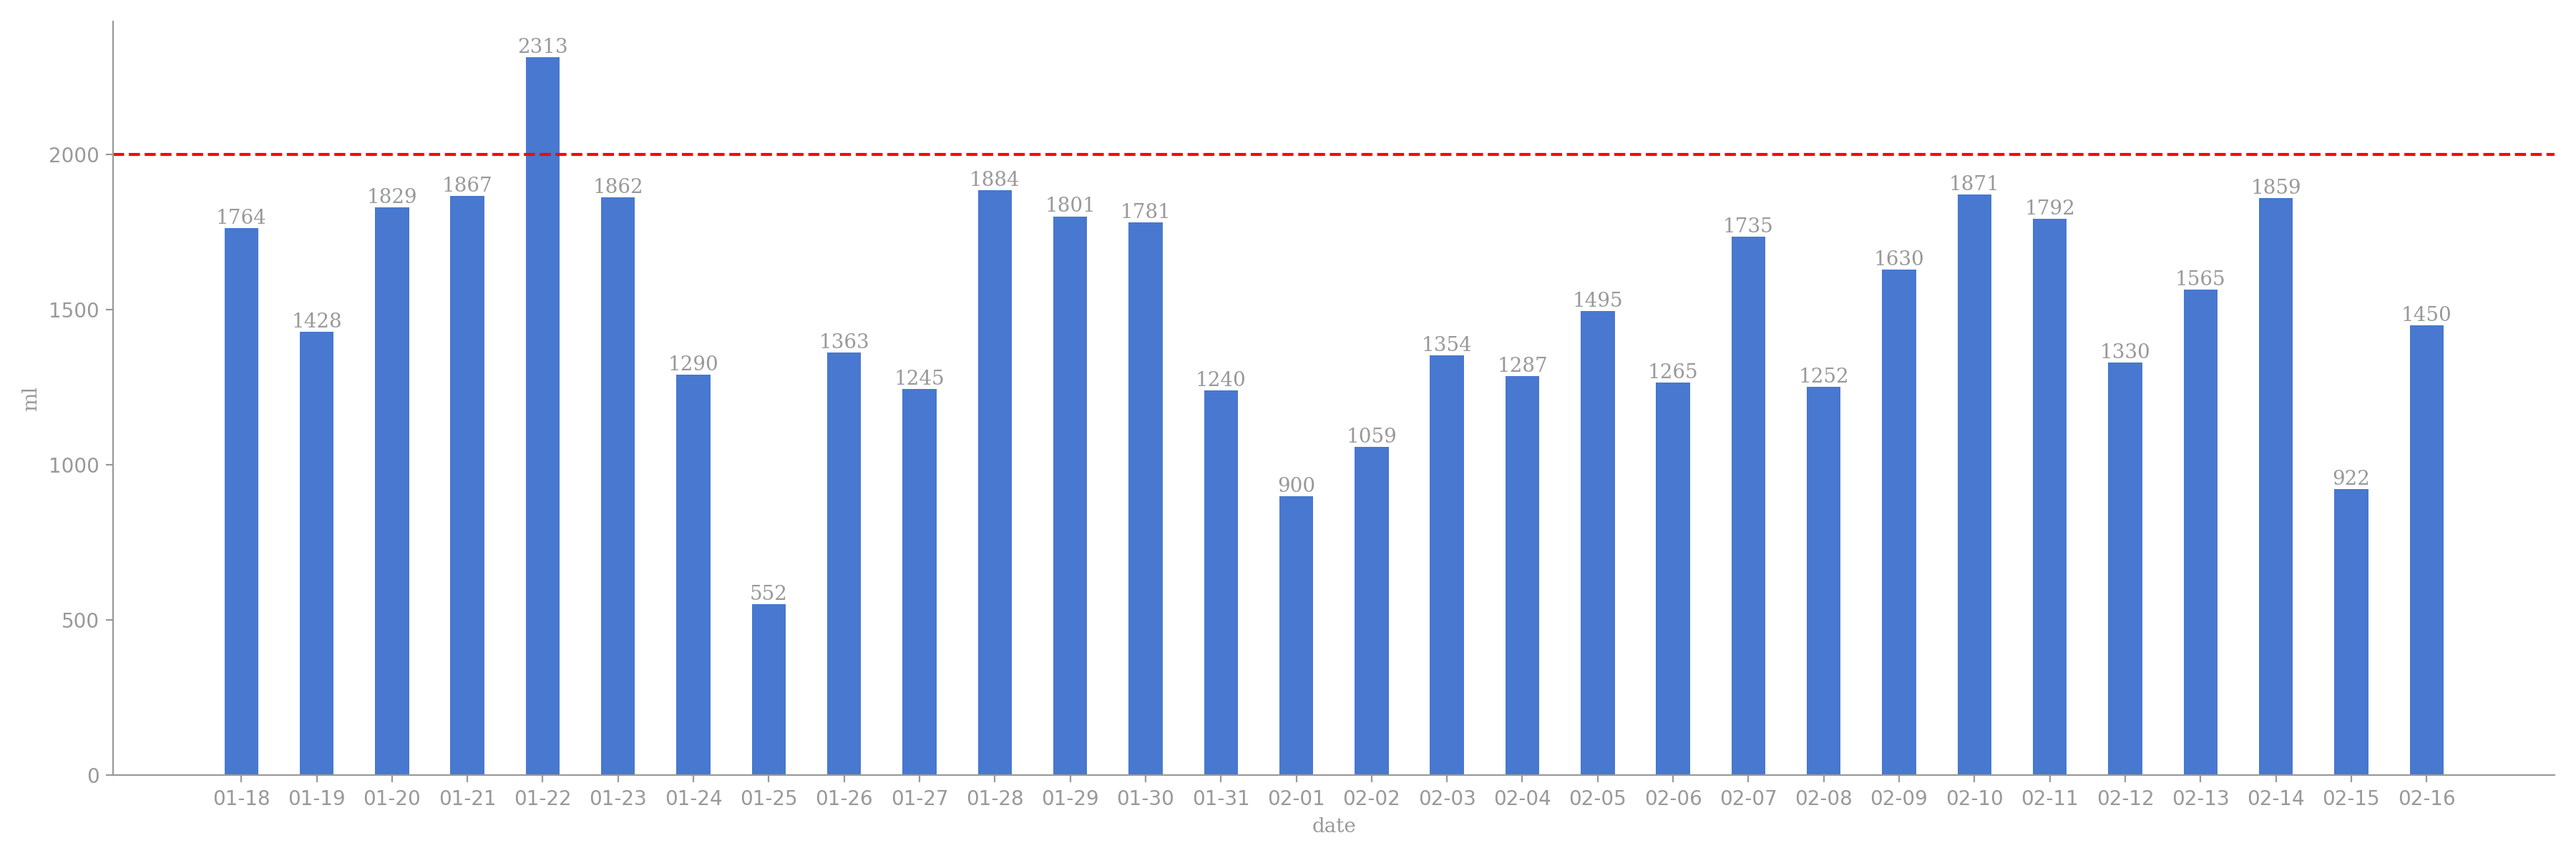
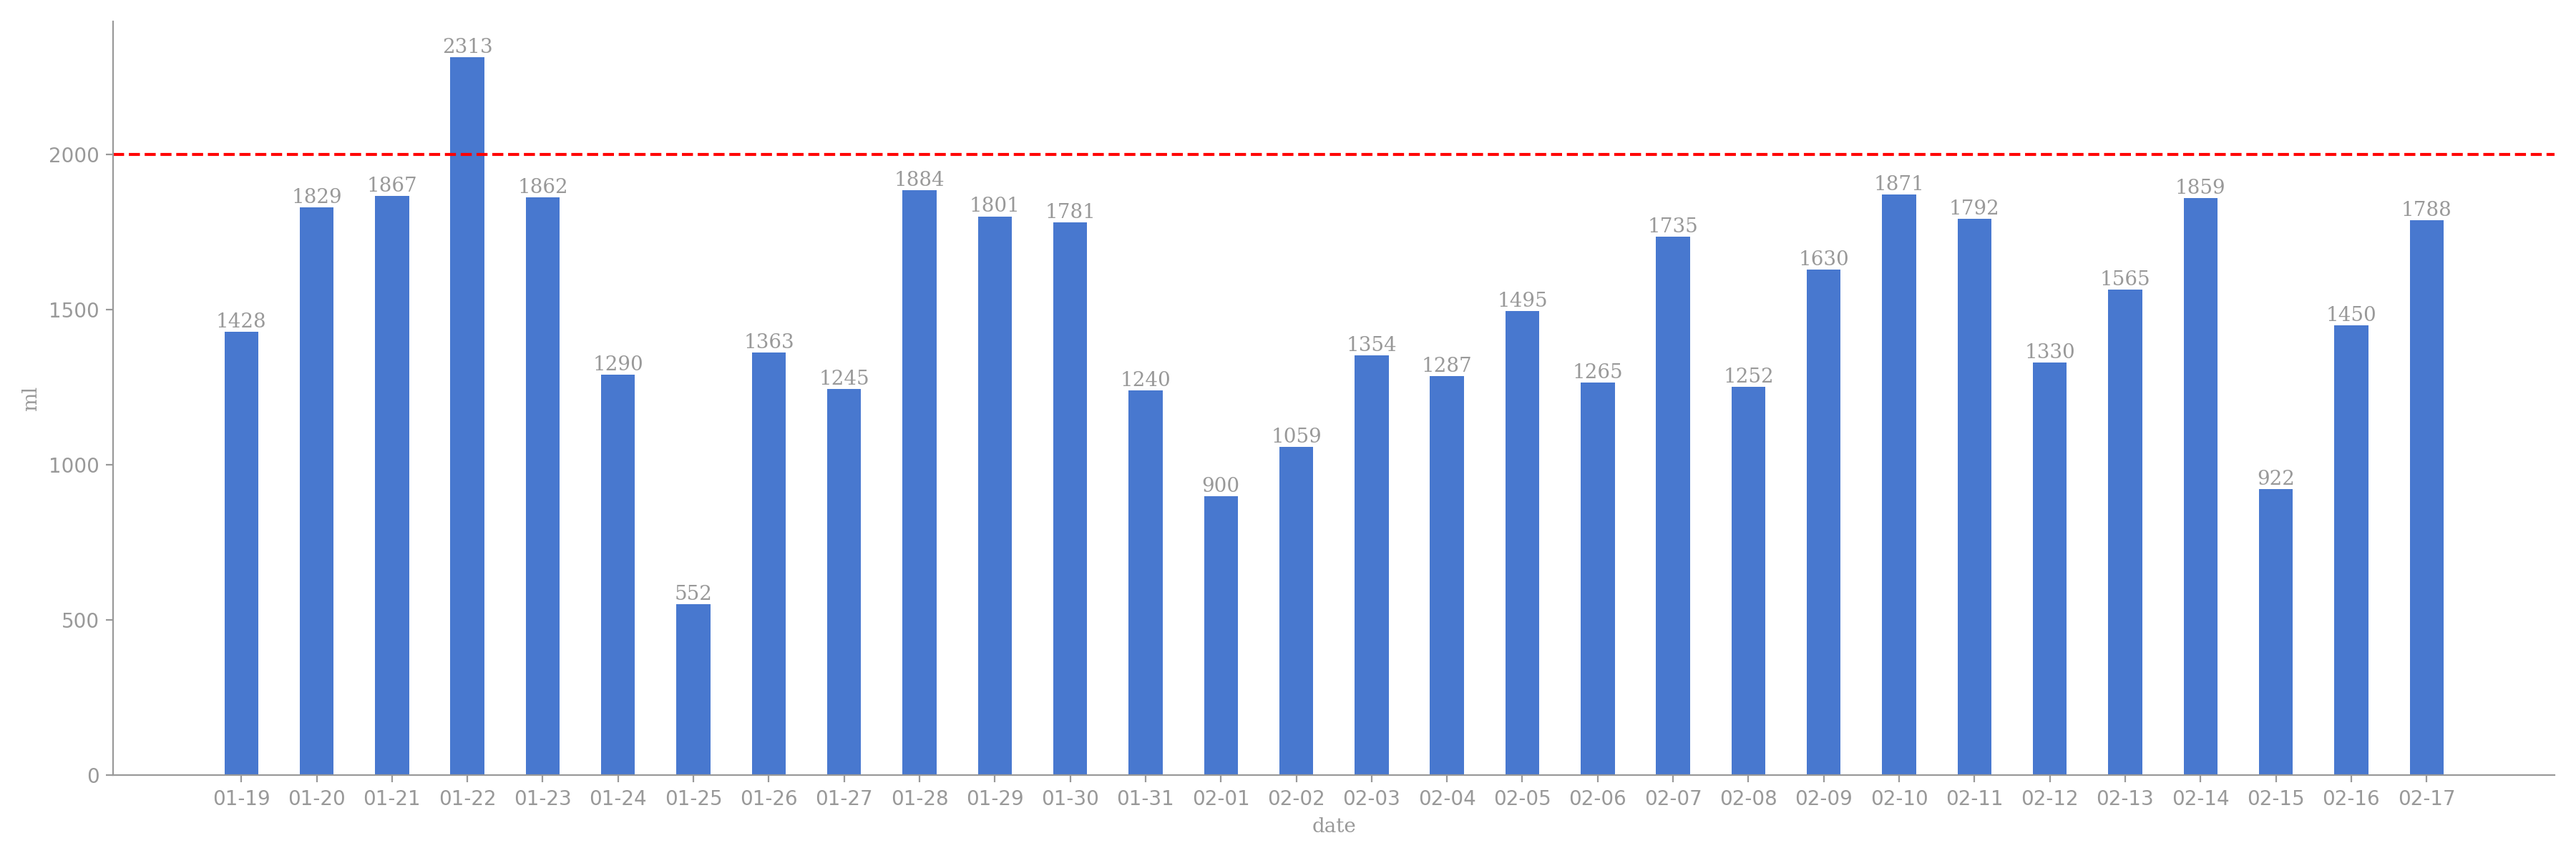
generated readme

Changed region(s): [[0.0622, 0.0308, 0.9644, 0.7092], [0.7156, 0.925, 0.7467, 0.9558]]

diff --git a/README.md b/README.md
@@ -5,12 +5,12 @@
 
 | 今日总饮水量 | 每小时平均饮水量 |
 | :----: | :----: |
-| 1788 | 137 |
+| 34 | 34 |
 </div>
 
-| 日期 | 00:46:13 | 02:01:39 | 07:53:59 | 09:24:55 | 10:12:29 | 11:28:03 | 12:22:28 | 13:08:55 | 13:46:30 | 15:21:50 | 16:21:45 | 19:47:27 | 21:33:02 | 22:53:43 |
-| :----: | :----: | :----: | :----: | :----: | :----: | :----: | :----: | :----: | :----: | :----: | :----: | :----: | :----: | :----: |
-| 2025-02-17 | 86 | 91 | 263 | 164 | 136 | 124 | 200 | 87 | 99 | 86 | 95 | 75 | 200 | 82 |
+| 日期 | 00:03:46 |
+| :----: | :----: |
+| 2025-02-18 | 34 |
 
 # 近30日饮水数据
 
@@ -19,8 +19,12 @@
 
 | 总饮水量 | 日均饮水量 |
 | :----: | :----: |
-| 44985 | 1499 |
+| 45009 | 1500 |
 </div>
+
+| 日期 | all | 00:46:13 | 02:01:39 | 07:53:59 | 09:24:55 | 10:12:29 | 11:28:03 | 12:22:28 | 13:08:55 | 13:46:30 | 15:21:50 | 16:21:45 | 19:47:27 | 21:33:02 | 22:53:43 |
+| :----: | :----: | :----: | :----: | :----: | :----: | :----: | :----: | :----: | :----: | :----: | :----: | :----: | :----: | :----: | :----: |
+| 2025-02-17 | 1788 | 86 | 91 | 263 | 164 | 136 | 124 | 200 | 87 | 99 | 86 | 95 | 75 | 200 | 82 |
 
 | 日期 | all | 00:59:40 | 01:40:12 | 03:06:55 | 06:18:52 | 07:20:48 | 08:48:13 | 09:26:59 | 14:08:56 | 17:35:54 | 18:53:20 | 19:11:23 | 20:35:23 | 23:56:29 |
 | :----: | :----: | :----: | :----: | :----: | :----: | :----: | :----: | :----: | :----: | :----: | :----: | :----: | :----: | :----: |
@@ -141,8 +145,4 @@
 | 日期 | all | 00:21:48 | 00:59:22 | 01:25:18 | 08:01:04 | 08:46:25 | 10:28:06 | 12:22:57 | 13:06:10 | 14:58:23 | 15:45:49 | 16:20:02 | 16:59:13 | 19:16:41 | 23:12:15 |
 | :----: | :----: | :----: | :----: | :----: | :----: | :----: | :----: | :----: | :----: | :----: | :----: | :----: | :----: | :----: | :----: |
 | 2025-01-18 | 1764 | 146 | 91 | 68 | 259 | 108 | 138 | 200 | 87 | 110 | 82 | 99 | 87 | 89 | 200 |
-
-| 日期 | all | 00:30:32 | 08:05:29 | 09:51:50 | 12:24:10 | 13:06:22 | 13:39:30 | 14:40:55 | 15:12:34 | 16:58:04 | 19:19:57 | 20:17:19 | 21:51:54 |
-| :----: | :----: | :----: | :----: | :----: | :----: | :----: | :----: | :----: | :----: | :----: | :----: | :----: | :----: |
-| 2025-01-17 | 1984 | 96 | 116 | 450 | 142 | 85 | 219 | 109 | 81 | 202 | 91 | 93 | 300 |
 
